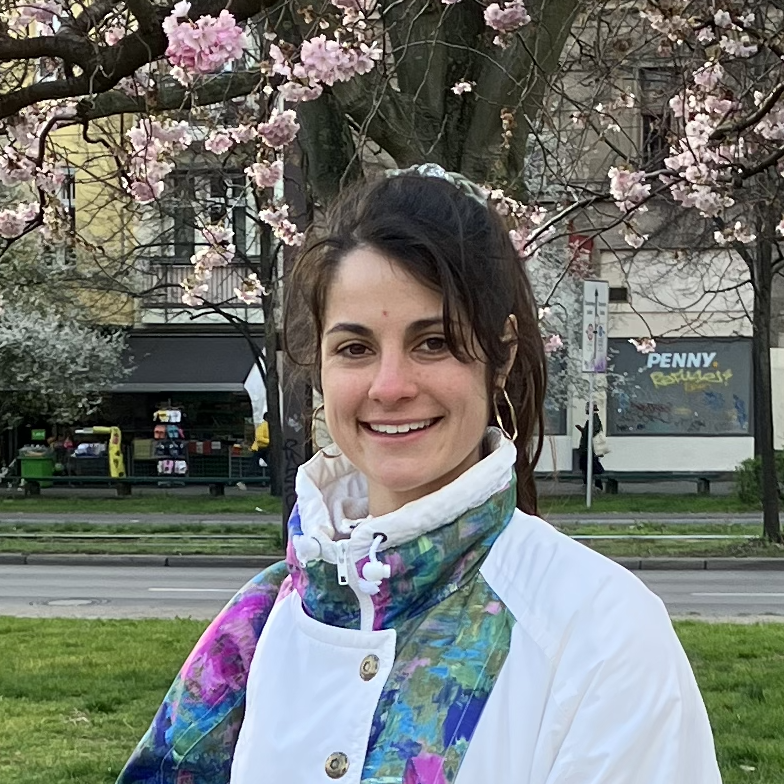
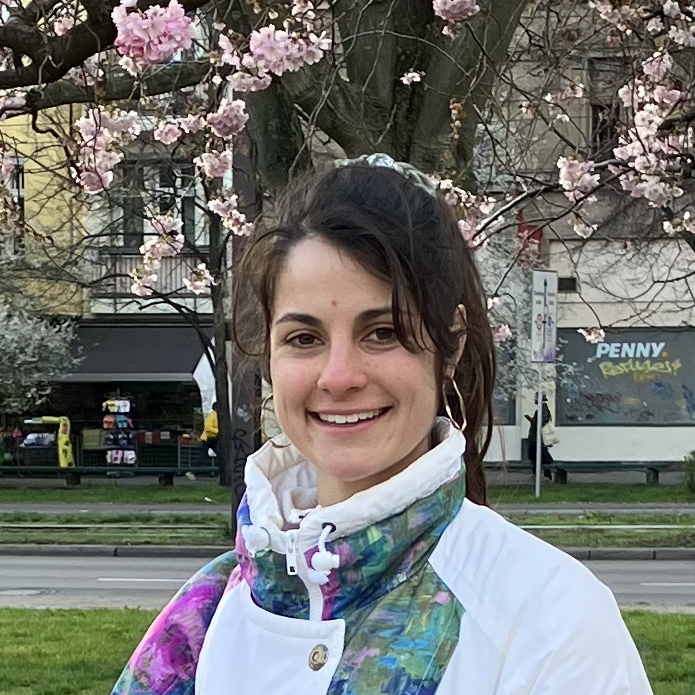
changed picture

diff --git a/index.html b/index.html
@@ -36,7 +36,7 @@
 						<!-- Me -->
 							<article id="home" class="panel intro">
 								<header>
-									<span class="avatar"><img src="images/IMG_7480.png" alt="0" width="160" /></span>
+									<span class="avatar"><img src="images/IMG_7140.png" alt="0" width="160" /></span>
 									<h2 style="color:#777575;"><center> Ségolène Martin</center></h2>
 									<br>
 									<br>
@@ -46,9 +46,9 @@
 
 								<body> 
 									<p>
-										I am working as a postdoctoral researcher at TU Berlin, in the
+										I am working as a postdoctoral researcher at TU Berlin (Math+), in the
 										<a href="https://www.tu.berlin/imageanalysis/ueber-uns/team" style="color:#1fafbfb2;"><u>image analysis</u></a> team headed by Prof.
-										<a href="https://page.math.tu-berlin.de/~steidl/" style="color:#1fafbfb2;"><u>Gabriel Steidl</u></a>. My current research is at the intersection of optimization, optimal transport and generative learning, with applications to image processing and computer vision.
+										<a href="https://page.math.tu-berlin.de/~steidl/" style="color:#1fafbfb2;"><u>Gabriel Steidl</u></a> and in collaboration with Prof. <a href="https://scholar.google.com/citations?user=5cOHZ4MAAAAJ&hl=fr&oi=sra" style="color:#1fafbfb2;"><u>Hanno Gottschalk</u></a>. My current research is at the intersection of optimization, optimal transport and generative learning, with applications to image processing and computer vision.
 									</p>
 									<br>
 									
